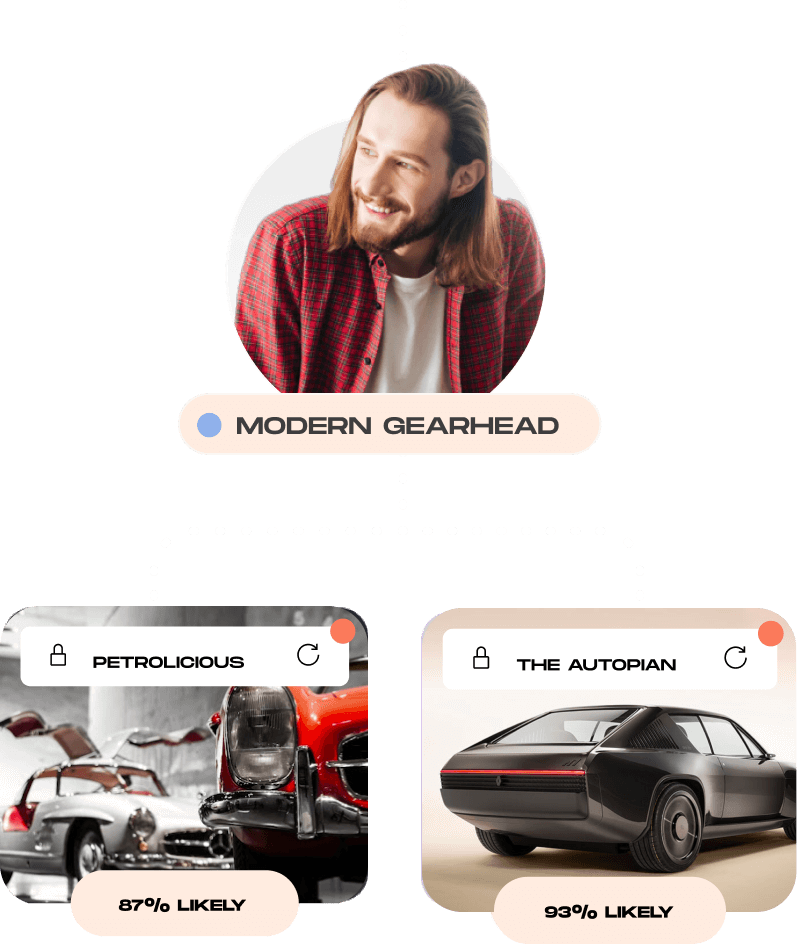
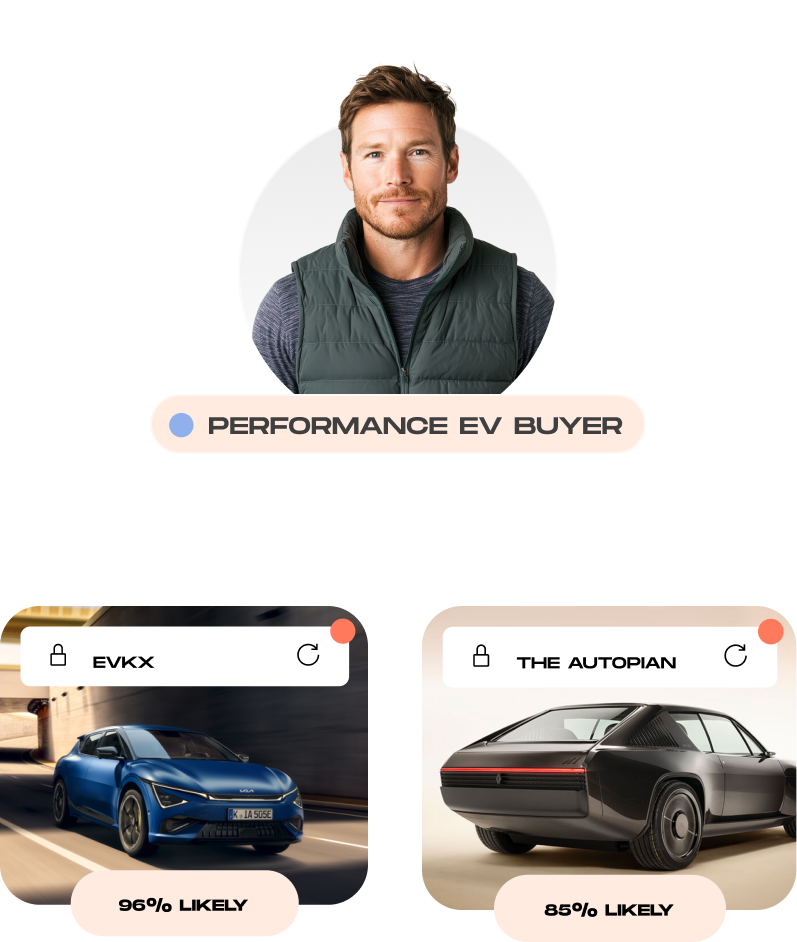
updating Semasio copy and images

diff --git a/app/sections/semasio/Semasio.js b/app/sections/semasio/Semasio.js
@@ -36,7 +36,7 @@ const Semasio = ({ headline, subtext }) => {
       ref: useRef(),
       dotRef: useRef(),
       textRef: useRef(),
-      text: 'Concept Cars',
+      text: 'Electric Vehicles',
       dotColor: 'blue',
     },
     {
@@ -72,21 +72,21 @@ const Semasio = ({ headline, subtext }) => {
   const sliders = useRef([
     {
       ref: useRef(),
-      text: 'Sentiment',
+      text: 'Electrification',
       triangleRef: useRef(),
       trianglePos: '50%',
       triangleEndPos: '90%',
     },
     {
       ref: useRef(),
-      text: 'Behaviors',
+      text: 'Luxury',
       triangleRef: useRef(),
       trianglePos: '30%',
       triangleEndPos: '55%',
     },
     {
       ref: useRef(),
-      text: 'Preferences',
+      text: 'Performance',
       triangleRef: useRef(),
       trianglePos: '20%',
       triangleEndPos: '70%',
